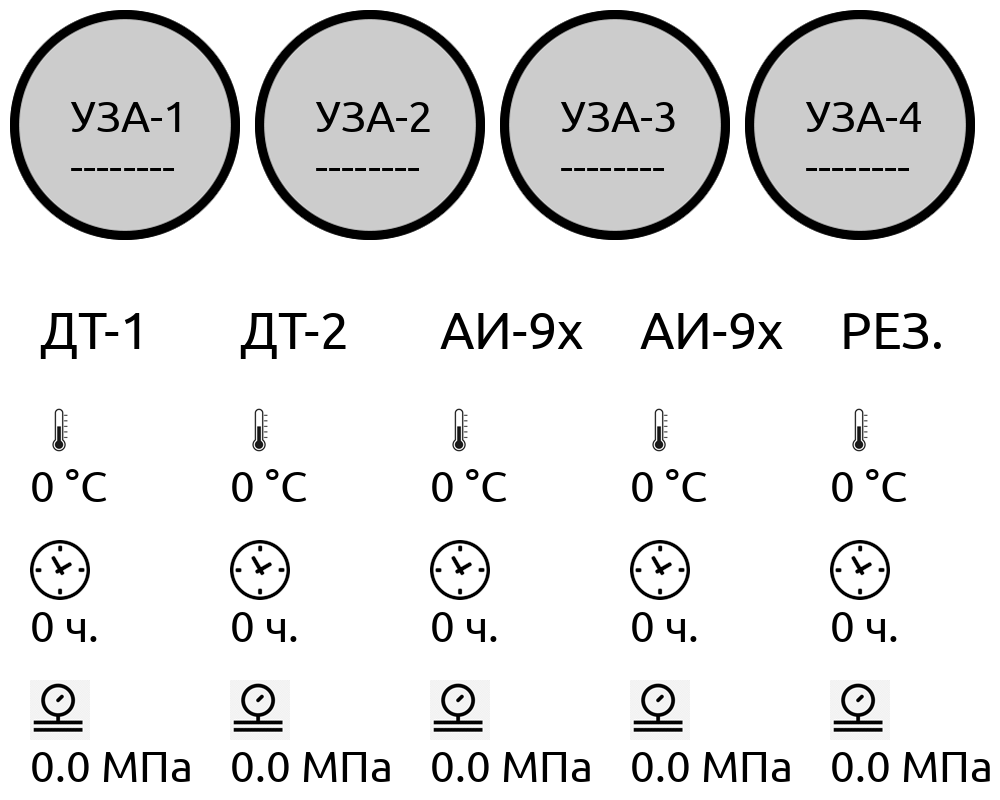
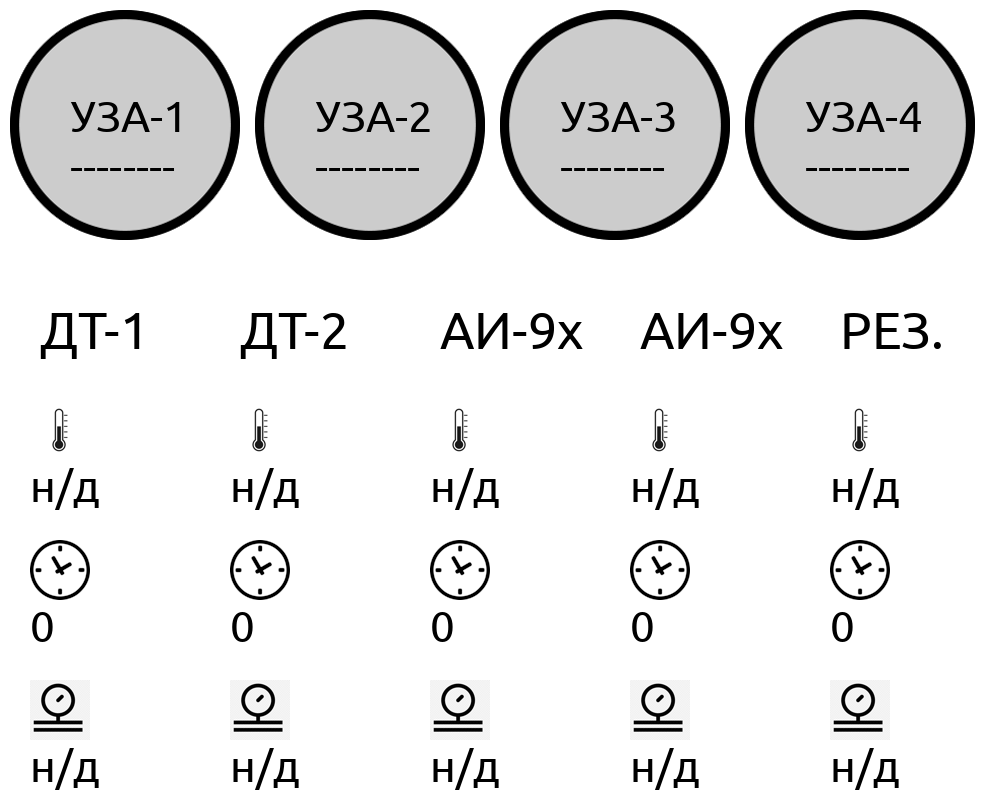
инициализировал БД

diff --git a/alembic/versions/536dc073e293_первая_миграция.py b/alembic/versions/536dc073e293_первая_миграция.py
@@ -1,0 +1,60 @@
+"""Первая миграция
+
+Revision ID: 536dc073e293
+Revises: 
+Create Date: 2025-05-26 09:27:43.099644
+
+"""
+from typing import Sequence, Union
+
+from alembic import op
+import sqlalchemy as sa
+
+
+# revision identifiers, used by Alembic.
+revision: str = '536dc073e293'
+down_revision: Union[str, None] = None
+branch_labels: Union[str, Sequence[str], None] = None
+depends_on: Union[str, Sequence[str], None] = None
+
+
+def upgrade() -> None:
+    """Upgrade schema."""
+    # ### commands auto generated by Alembic - please adjust! ###
+    op.create_table('gas_sensors',
+    sa.Column('id', sa.Integer(), autoincrement=True, nullable=False),
+    sa.Column('name', sa.String(), nullable=False),
+    sa.Column('value', sa.Float(), nullable=False),
+    sa.Column('dttm', sa.DateTime(), nullable=False),
+    sa.PrimaryKeyConstraint('id')
+    )
+    op.create_table('pressures',
+    sa.Column('id', sa.Integer(), autoincrement=True, nullable=False),
+    sa.Column('name', sa.String(), nullable=False),
+    sa.Column('value', sa.Float(), nullable=False),
+    sa.Column('dttm', sa.DateTime(), nullable=False),
+    sa.PrimaryKeyConstraint('id')
+    )
+    op.create_table('temperatures',
+    sa.Column('id', sa.Integer(), autoincrement=True, nullable=False),
+    sa.Column('name', sa.String(), nullable=False),
+    sa.Column('value', sa.Float(), nullable=False),
+    sa.Column('dttm', sa.DateTime(), nullable=False),
+    sa.PrimaryKeyConstraint('id')
+    )
+    op.create_table('users',
+    sa.Column('id', sa.Integer(), nullable=False),
+    sa.Column('name', sa.String(), nullable=False),
+    sa.PrimaryKeyConstraint('id')
+    )
+    # ### end Alembic commands ###
+
+
+def downgrade() -> None:
+    """Downgrade schema."""
+    # ### commands auto generated by Alembic - please adjust! ###
+    op.drop_table('users')
+    op.drop_table('temperatures')
+    op.drop_table('pressures')
+    op.drop_table('gas_sensors')
+    # ### end Alembic commands ###

diff --git a/handlers.py b/handlers.py
@@ -25,5 +25,11 @@ async def on_common(clb: CallbackQuery, button, manager: DialogManager):
         await clb.answer("Данных нет", show_alert=True)
         return
 
+    data.update(
+        {
+            nm: ["н/д" if (i < -500 or i > 500) else i for i in data[nm]]
+            for nm in ("pressures", "temperatures", "gas_sensors")
+        }
+    )
     await common_info(data)
     await manager.switch_to(MainSG.common_info)

diff --git a/onb_uza_bot.py b/onb_uza_bot.py
@@ -38,12 +38,12 @@ async def main():
     )
     scheduler = AsyncIOScheduler()
     scheduler.start()
-    scheduler.add_job(
-        poll_registers,
-        trigger="interval",
-        seconds=15,
-        id="polling",
-    )
+    # scheduler.add_job(
+    #     poll_registers,
+    #     trigger="interval",
+    #     seconds=5,
+    #     id="polling",
+    # )
 
     storage = RedisStorage(
         Redis(),

diff --git a/service/modbus.py b/service/modbus.py
@@ -79,7 +79,6 @@ async def poll_registers() -> dict | None:
                 return
             hold_regs.registers.extend(input_regs.registers)
             result = process_data(client, hold_regs.registers)
-            print(result)
             return result
         except ModbusException as exc:
             logger.error(f"Ошибка протокола Modbus: {exc}")

diff --git a/db/repo.py b/db/repo.py
@@ -1,0 +1,6 @@
+from service.modbus import poll_registers
+
+
+async def save_data():
+    data = await poll_registers()
+
